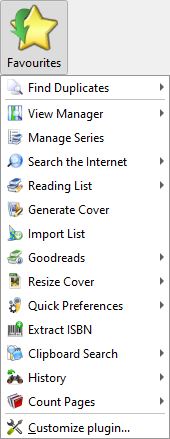
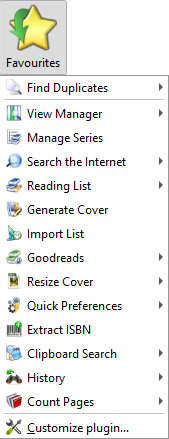
Add Help button to menu

Changed region(s): [[0.0, 0.0, 0.7692, 1.0], [0.3254, 0.0296, 0.355, 0.0592]]

diff --git a/favourites_menu/config.py b/favourites_menu/config.py
@@ -55,6 +55,9 @@ def get_safe_title(action):
         text = unicode(action.text())
     return text.replace('&&', '—').replace('&', '').replace('—', '&')
 
+def show_help():
+    open_url(QUrl(HELP_URL))
+
 
 class FavMenusListWidget(QListWidget):
 
@@ -207,9 +210,9 @@ class ConfigWidget(QWidget):
         button_layout.addWidget(self.down_btn)
 
         button_layout = QHBoxLayout()
-        help_button = QPushButton(' '+_('Help'), self)
+        help_button = QPushButton(' '+_('&Help'), self)
         help_button.setIcon(get_icon('help.png'))
-        help_button.clicked.connect(self.show_help)
+        help_button.clicked.connect(show_help)
         button_layout.addWidget(help_button)
         button_layout.addStretch(1)
         layout.addLayout(button_layout)
@@ -448,7 +451,4 @@ class ConfigWidget(QWidget):
 
     def save_settings(self):
         plugin_prefs[STORE_MENUS] = self.items_list.get_fav_menus()
-
-    def show_help(self):
-        open_url(QUrl(HELP_URL))
 

diff --git a/favourites_menu/action.py b/favourites_menu/action.py
@@ -154,6 +154,8 @@ class FavouritesMenuAction(InterfaceAction):
         m.addSeparator()
         create_menu_action_unique(self, m, _('&Customize plugin') + '...', 'config.png',
                                   shortcut=False, triggered=self.show_configuration)
+        create_menu_action_unique(self, m, _('&Help'), 'help.png',
+                                  shortcut=False, triggered=cfg.show_help)
 
     def show_configuration(self):
         self.interface_action_base_plugin.do_user_config(self.gui)

diff --git a/favourites_menu/CHANGELOG.md b/favourites_menu/CHANGELOG.md
@@ -3,7 +3,7 @@
 ## [1.3.0] - 2022-10-XX
 _All kiwidude plugins updated/migrated to: https://github.com/kiwidude68/calibre_plugins_
 ### Added
-- Add a Help button to the configuration dialog.
+- Add a Help button to the menu and configuration dialog.
 ### Changed
 - **Breaking:** Drop PyQt4 support, require calibre 2.x or later.
 - Refactoring of common code
